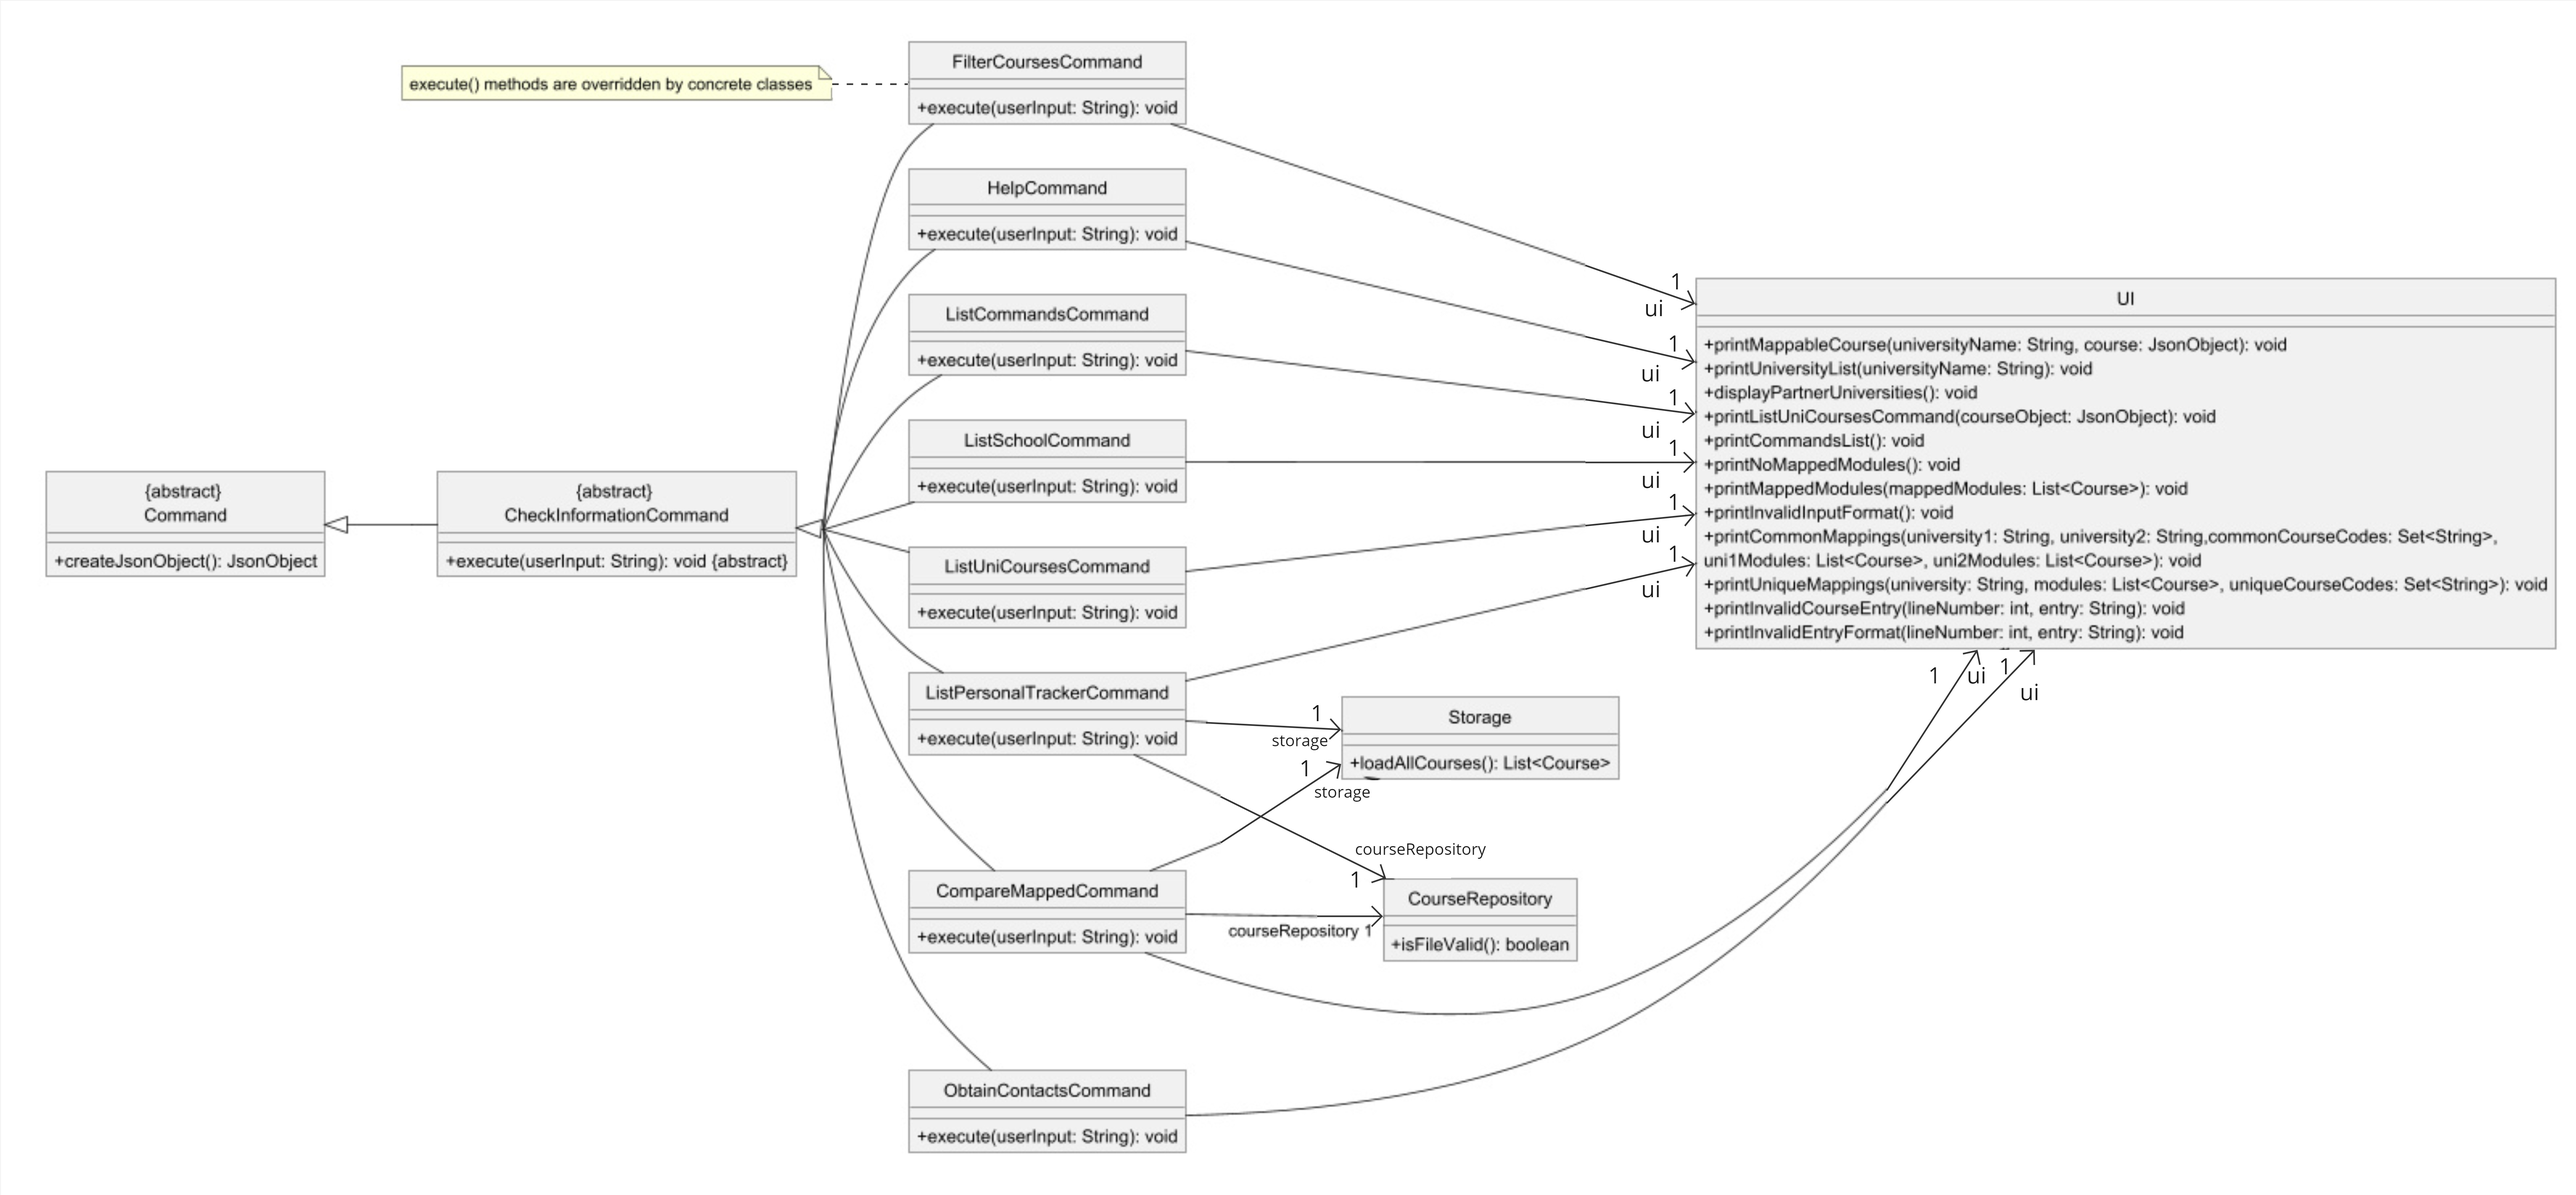
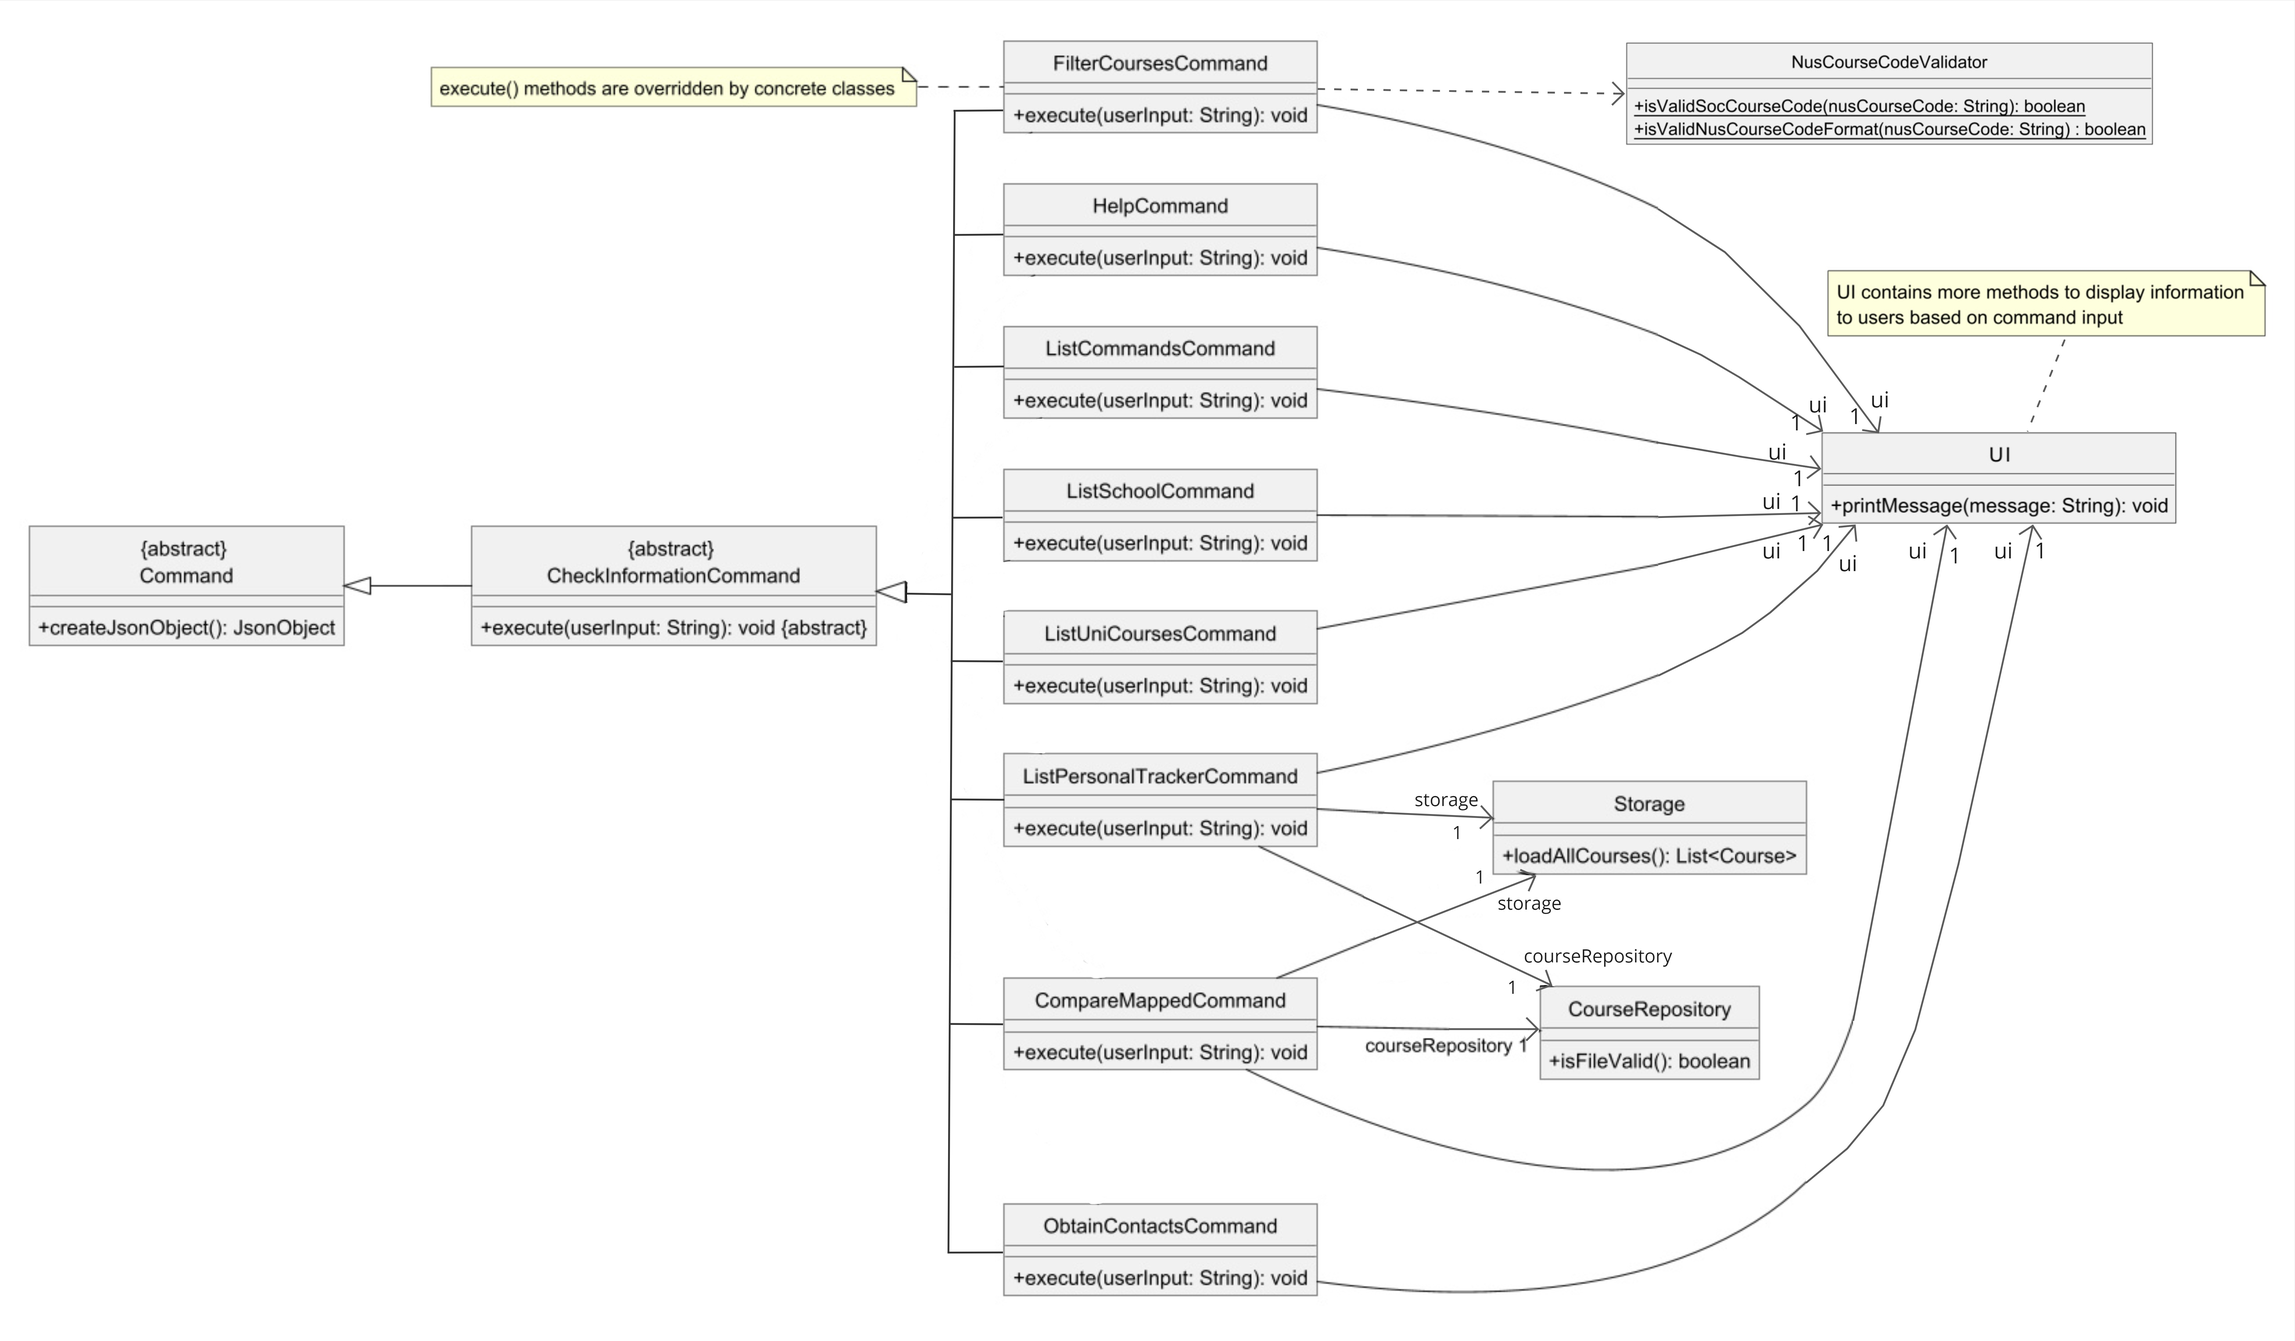
Apply standard notations to command class diagrams

diff --git a/docs/DeveloperGuide.md b/docs/DeveloperGuide.md
@@ -99,7 +99,7 @@ interact with a given component through its interface rather than the concrete c
 
 #### Command Structure:
 
-![Class diagram for Commands](images/CommandClassInheritance.png)
+![Class diagram for Commands](images/CommandClassInheritance.jpg)
 
 The abstract command classes for our two main features, `CheckInformationCommand` and `PersonalTrackerCommand`.
 must inherit from the abstract `Command` class, which has the method to read the Json file containing course 
